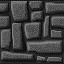
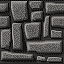
Added more lighting effects, and ambient particle effect.

diff --git a/ThursEngine.c b/ThursEngine.c
@@ -16,6 +16,7 @@
 #include <math.h>
 #include <stdio.h>
 #include <stdlib.h>
+#include <string.h>
 
 #define MAP_WIDTH		 64
 #define MAP_HEIGHT		 64
@@ -26,6 +27,7 @@
 #define SCREEN_W		600
 
 #define NUM_ENTITIES	  6
+#define MAX_PARTICLES	100
 
 #define PI	3.14159265358979323846f
 #define CLAMP(value, min, max) ((value) < (min) ? (min) : ((value) > (max) ? (max) : (value)))
@@ -48,6 +50,16 @@ typedef struct {
 } Entity;
 Entity entities[NUM_ENTITIES];
 
+typedef struct {
+	float		x, y, z;
+	float		vx, vy, vz;
+	float		lifetime;
+	Color		color;
+} Particle;
+Particle particles[MAX_PARTICLES];
+
+
+
 typedef enum { CLOSED, OPENING, OPEN, CLOSING } DoorState;
 typedef struct {
 	int			width;
@@ -66,19 +78,26 @@ Map map = {
 	.data = {0}
 };
 
-void GenerateMap( Map* m ) {
-	for( int y = 0; y < MAP_HEIGHT; y++ ) {
-		for( int x = 0; x < MAP_WIDTH; x++ ) {
-			if( y == 0 || y == MAP_HEIGHT - 1 || x == 0 || x == MAP_WIDTH - 1 ) {
-				m->data[y * MAP_WIDTH + x] = 1; // Solid walls at borders
-			} else if( rand() % 100 < 20 ) { // 10% chance of placing walls randomly
-				m->data[y * MAP_WIDTH + x] = 1;
-			} else {
-				m->data[y * MAP_WIDTH + x] = 0; // Open space
-			}
+void LoadMapFromCSV( Map* map, const char* filename ) {
+	char filePath[256] = "C:\\Users\\botw5\\source\\repos\\ThursEngine\\"; // Base path
+    strcat_s(filePath, sizeof(filePath), filename); // Append filename to path
+
+	FILE* file = fopen( filePath, "r" );
+	if( !file ) {
+		printf( "Error: Could not open map file: %s\n", filePath );
+		return;
+	}
+
+	for( int y = 0; y < map->height; y++ ) {
+		for( int x = 0; x < map->width; x++ ) {
+			fscanf_s( file, "%d,", &map->data[y * map->width + x] );
 		}
 	}
+
+	fclose( file );
+	printf( "Map loaded successfully from: %s\n", filePath );
 }
+
 
 // Door collision helper.
 bool isPassable( int x, int y ) {
@@ -135,7 +154,6 @@ float CastRay( const Player* player, Map* m, float angle, int* side, int* texX, 
 			distance = sideDistY - deltaDistY;
 		}
 
-
 		int tile = GetMapValue( m, mapX, mapY );
 		if( tile == 1 || ( tile == 2 && m->doorOpenness[mapY * m->width + mapX] < 0.5f ) ) {
 			hit = true;
@@ -163,6 +181,63 @@ float CastRay( const Player* player, Map* m, float angle, int* side, int* texX, 
 	return distance;
 }
 
+void InitParticles( Player* player ) {
+	for( int i = 0; i < MAX_PARTICLES; i++ ) {
+		particles[i].lifetime = 0.0f;
+	}
+}
+
+void SpawnParticle( Player* player ) {
+	for( int i = 0; i < MAX_PARTICLES; i++ ) {
+		if( particles[i].lifetime <= 0.0f ) {
+			particles[i].x = player->x + ( rand() % 10 - 5 );
+			particles[i].y = player->y + ( rand() % 10 - 5 );
+			particles[i].z = ( rand() % 100 ) / 100.0f;			// 0 to 1 height
+			particles[i].vx = ( float )( rand() % 100 - 50 ) / 100.0f;
+			particles[i].vy = ( float )( rand() % 100 - 50 ) / 100.0f;
+			particles[i].vz = 0.01f;	// Slight upward drift
+			particles[i].lifetime = 4.0f + ( rand() % 100 ) / 100.0f;
+			particles[i].color = ( Color ){ 200, 200, 200, 100 };
+			break;
+		}
+	}
+}
+
+void UpdateParticles( float dt ) {
+	for( int i = 0; i < MAX_PARTICLES; i++ ) {
+		if( particles[i].lifetime > 0.0f ) {
+			particles[i].x += particles[i].vx * dt;
+			particles[i].y += particles[i].vy * dt;
+			particles[i].z += particles[i].vz * dt;
+			particles[i].lifetime -= dt;
+			if( particles[i].z > 1.0f || particles[i].lifetime <= 0.0f ) {
+				particles[i].lifetime = 0.0f;
+			}
+		}
+	}
+}
+
+void DrawParticles( Player* player ) {
+	for( int i = 0; i < MAX_PARTICLES; i++ ) {
+		if( particles[i].lifetime > 0.0f ) {
+			float dx = particles[i].x - player->x;
+			float dy = particles[i].y - player->y;
+			float distance = sqrtf( dx * dx + dy * dy );
+			if( distance < 16.0f ) {
+				float angle = atan2f( dy, dx ) - player->angle;
+				if( angle < -PI ) angle += 2 * PI;
+				if( angle > PI ) angle -= 2 * PI;
+
+				if( fabsf( angle ) < player->fov / 2 ) {
+					float screenX = SCREEN_W / 2 + tanf( angle ) * ( 500.0f / distance );
+					float screenY = SCREEN_H / 2 - ( particles[i].z * 500.0f / distance );
+					int size = ( int )( 10.0f / distance );
+					DrawRectangle( screenX - size / 2, screenY - size / 2, size, size, particles[i].color );
+				}
+			}
+		}
+	}
+}
 void SpawnRandEntities( Entity* entities, int count, Map* m ) {
 	int spawned = 0;
 	while( spawned < count ) {
@@ -366,6 +441,7 @@ int main( void ) {
 	HideCursor();
 
 	SpawnRandEntities( entities, NUM_ENTITIES, &map );
+	InitParticles(0);
 
 	printf( "Current Working Directory: %s\n", GetWorkingDirectory() );
 	Texture2D wallTexture = LoadTexture( "mossy.png" );
@@ -374,9 +450,9 @@ int main( void ) {
 	//Texture2D ceilingTexture = LoadTexture( "ceiling.png" );
 	SetTextureFilter( wallTexture, TEXTURE_FILTER_POINT );
 
-	GenerateMap( &map );
+	LoadMapFromCSV( &map, "map64.csv" );
 
-	Player player = { 10.0f, 10.0f, 0.0f, PI / 3, 2.0f, 0.002f, 1.4f };
+	Player player = { 10.0f, 10.0f, 0.0f, PI / 3, 4.0f, 0.002f, 1.4f };
 	while( !isPassable( ( int )player.x, ( int )player.y ) ) {
 		player.x += 0.1f;
 		if( player.x >= MAP_WIDTH ) {
@@ -510,6 +586,10 @@ int main( void ) {
 
 		UpdateDoors( &map, dt );
 		UpdateEntities( entities, NUM_ENTITIES, &player, &map, dt );
+		UpdateParticles( dt );
+		if( rand() % 60 == 0 ) {
+			SpawnParticle( &player );
+		}
 
 		BeginTextureMode( target );
 		ClearBackground( BLACK );
@@ -577,6 +657,7 @@ int main( void ) {
 
 		}
 		DrawEntities( entities, NUM_ENTITIES, &player, &map );
+		DrawParticles( &player );
 		DrawFPS( 10, 10 );
 		EndTextureMode();
 
@@ -592,8 +673,6 @@ int main( void ) {
 						( Rectangle ) {0, 0, ( float )target.texture.width, ( float )-target.texture.height},
 						( Rectangle ) {offsetX, offsetY, 800 * scale, 600 * scale},
 						( Vector2 ) {0, 0}, 0.0f, WHITE );
-
-
 
 		// Draw Border textures
 		//if( offsetX > 0 ) {
